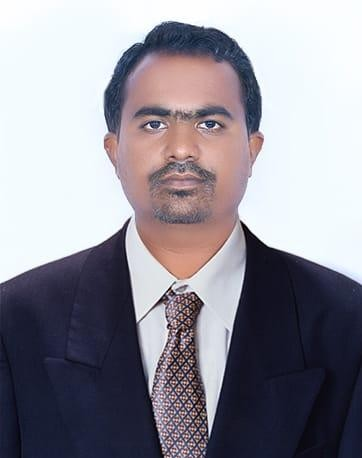
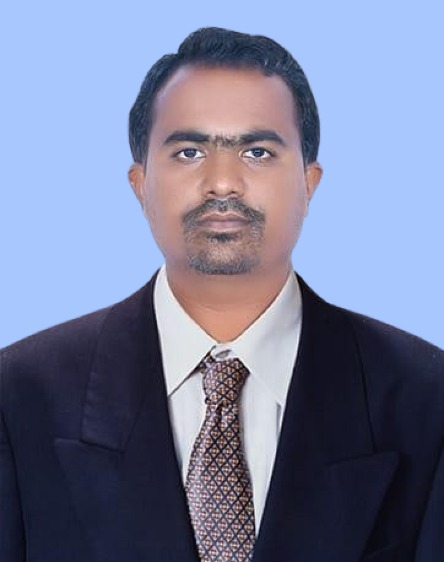
Leader ship image background change replaced

diff --git a/src/components/pages/Legacy.jsx b/src/components/pages/Legacy.jsx
@@ -4,10 +4,10 @@ import './Legacy.css';
 
 // Import available images
 import jcmLegacyLogo from '../../assets/img/jcm-legacy.jpg';
-import inheritValues from '../../assets/img/founder.jpg';
+import inheritValues from '../../assets/img/ceo-e.jpg';
 import thePassion from '../../assets/img/agro-veg.jpg';
 import readyOpportunities from '../../assets/img/project-3.jpg';
-import uniqueStyle from '../../assets/img/founder.jpg';
+import uniqueStyle from '../../assets/img/ceo-e.jpg';
 import failureSuccess from '../../assets/img/leadership-banner.jpg';
 import doitLearn from '../../assets/img/food-agro.jpg';
 
